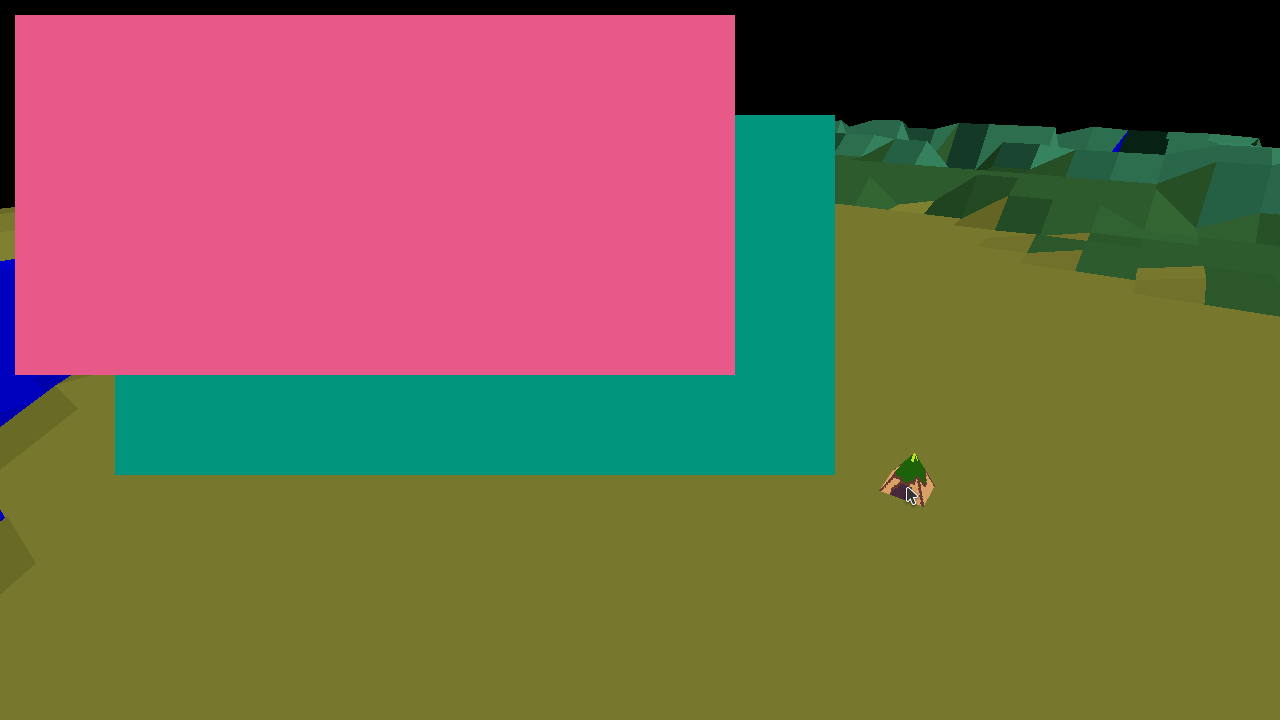
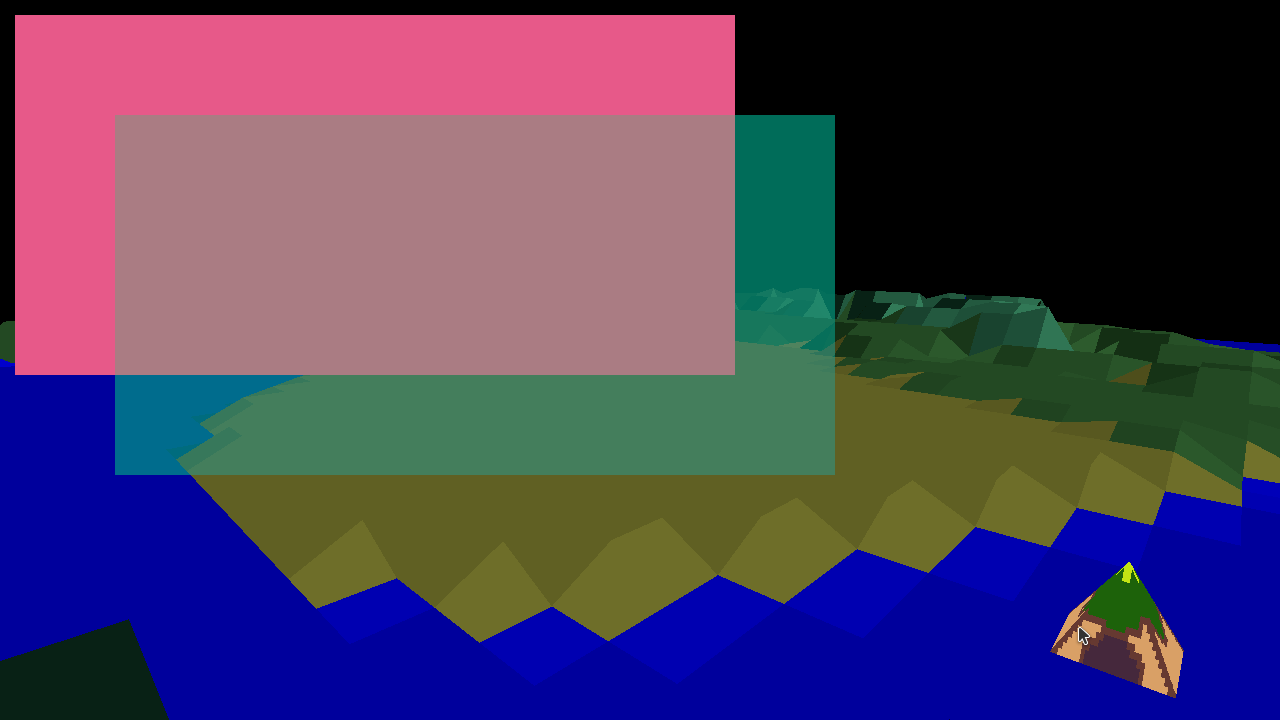
im pretty sure my laptop is failing

diff --git a/Project/main.c b/Project/main.c
@@ -362,6 +362,34 @@ int main(){
 
     Vector3 geebin = {0,0,0};
 
+    /* PLAN:
+    
+        Create a ui element in the top left
+        that has a white background with a 
+        status bar showing the day cycle
+    */
+    UiComponentInfo daynightbackground = {
+        .settings = UI_BASE_SETTINGS,
+        .type = UI_PANEL,
+        .panel = {
+            15, 15, 250, 50,
+            .colour = { 0.85, 0.75, 0.6, 1 }
+        }
+    };
+    UiAddComponent( ui, NULL, daynightbackground );
+
+    UiComponentInfo daynightstatus = {
+        .settings = UI_BASE_SETTINGS,
+        .type = UI_BAR,
+        .bar = {
+            25, 25, 230, 30,
+            .fg = { 0, 1, 0, 1 },
+            .bg = { 1, 0, 0, 1 },
+            .going = UI_LEFT_RIGHT
+        }
+    };
+
+    /*
     UiComponentInfo blugg = {
         .settings = UI_BASE_SETTINGS,
         .type = UI_PANEL,
@@ -376,6 +404,7 @@ int main(){
     blugg.panel.y += 100;
     blugg.panel.colour = (Vector4){0, 0.3, 0.2, 0.5};
     UiAddComponent( ui, NULL, blugg );
+    */
     
     UiRedraw( ui );
 
